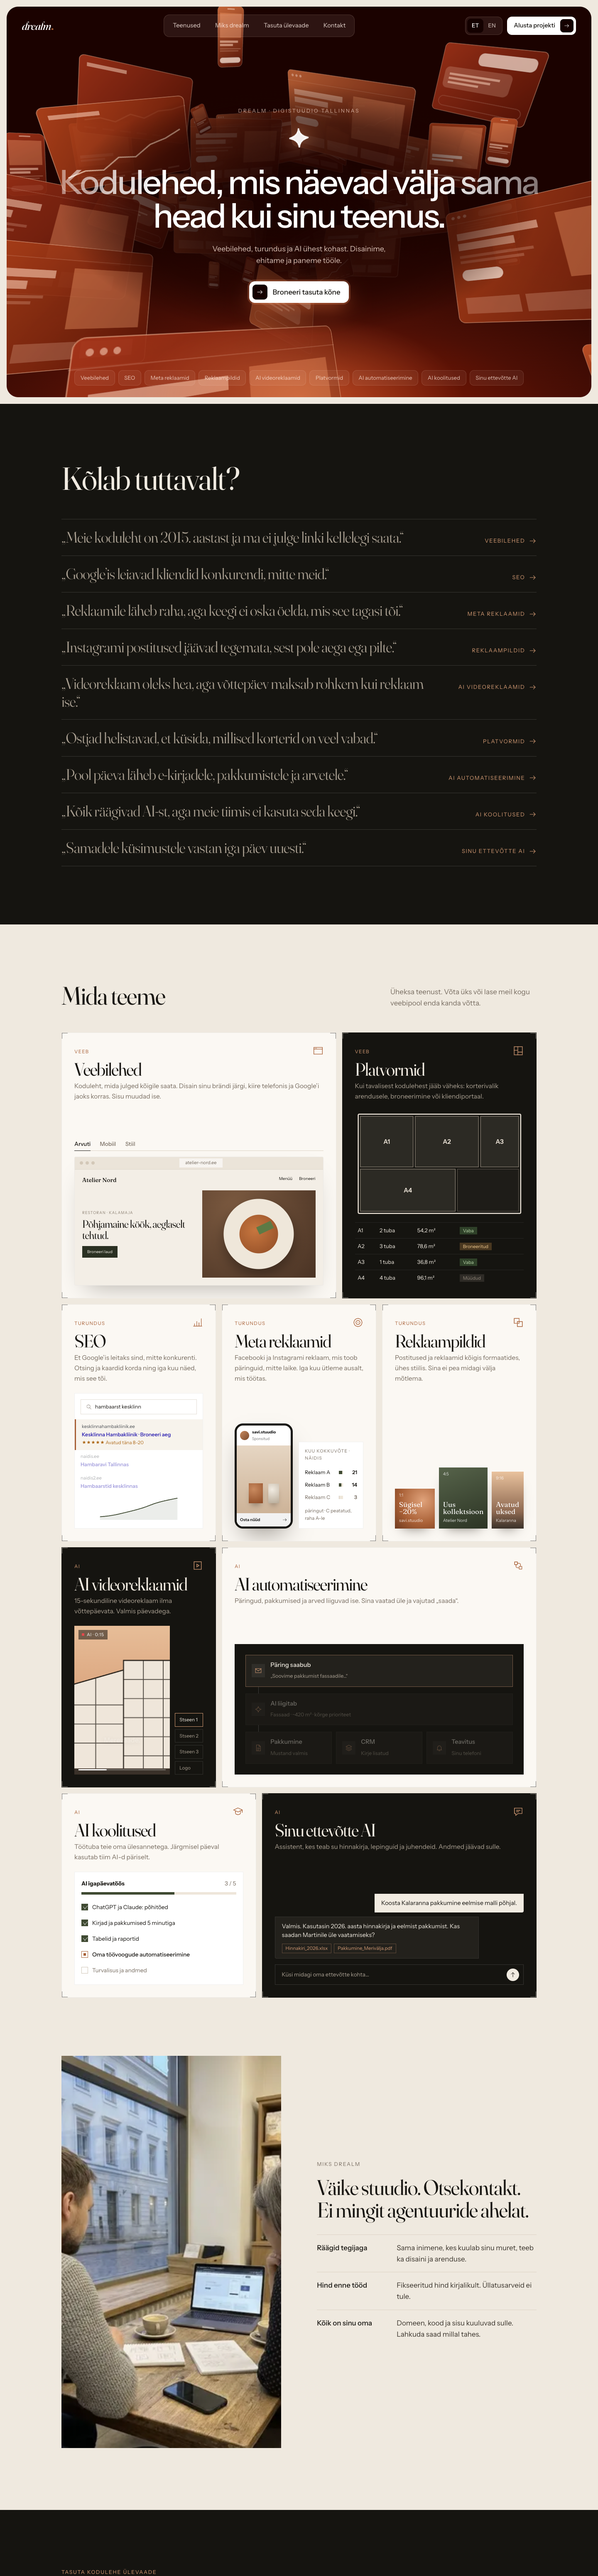
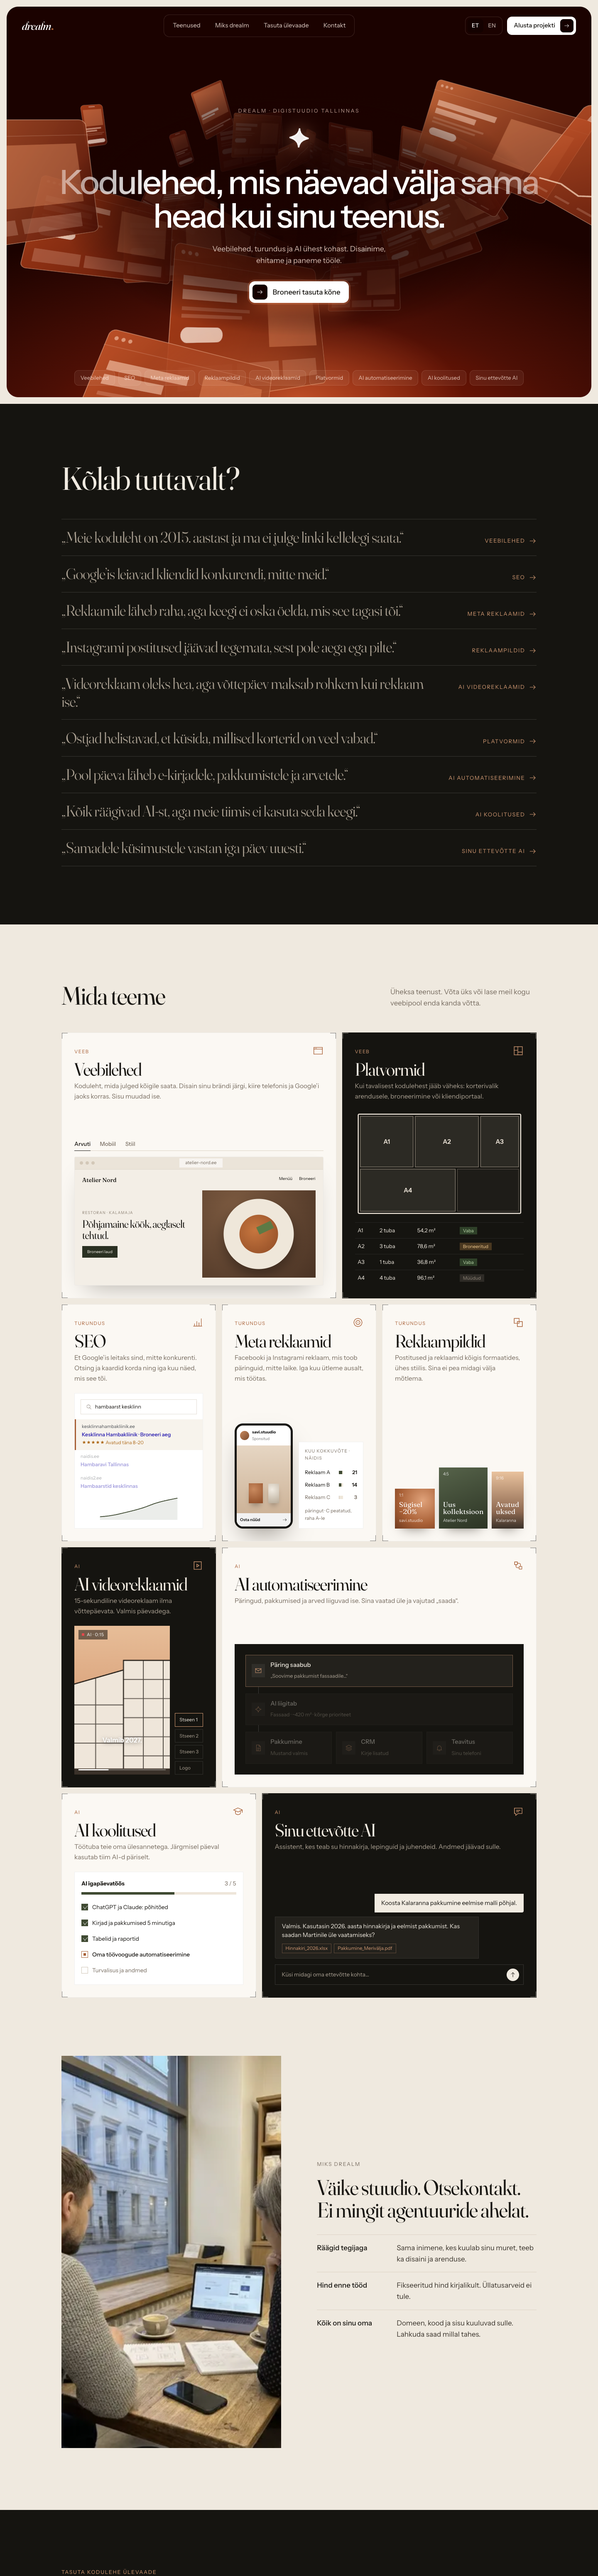
3D hero: fade cards near camera, fewer cards, darker nav pills

Changed region(s): [[0.0, 0.0, 0.5625, 0.1556], [0.4688, 0.0, 1.0, 0.1556]]

diff --git a/src/scripts/hero-scene.ts b/src/scripts/hero-scene.ts
@@ -145,7 +145,7 @@ export function mountHeroScene(canvas: HTMLCanvasElement) {
 
   const DEPTH = 56;
   const cards: { mesh: THREE.Mesh; speed: number; spin: number }[] = [];
-  const N = 72;
+  const N = 56;
   for (let i = 0; i < N; i++) {
     const t = textures[(i * 7) % textures.length];
     const scale = (t.k === 'phone' ? 2.4 : t.k === 'browser' ? 4.4 : 3.1) * (0.8 + Math.random() * 0.5);
@@ -157,7 +157,7 @@ export function mountHeroScene(canvas: HTMLCanvasElement) {
     const radius = 5.2 + Math.random() * 3.2;
     const x = Math.cos(angle) * radius * 1.55;
     const y = Math.sin(angle) * radius * 0.95;
-    mesh.position.set(x, y, -Math.random() * DEPTH);
+    mesh.position.set(x, y, 3 - Math.random() * (DEPTH + 3));
     // turn each card towards the tunnel axis, like panels lining a corridor
     mesh.rotation.set(Math.sign(y) * (0.35 + Math.random() * 0.35), -Math.sign(x) * (0.5 + Math.random() * 0.4), (Math.random() - 0.5) * 0.5);
     scene.add(mesh);
@@ -192,7 +192,10 @@ export function mountHeroScene(canvas: HTMLCanvasElement) {
         for (const c of cards) {
           c.mesh.position.z += c.speed * dt;
           c.mesh.rotation.z += c.spin * dt;
-          if (c.mesh.position.z > 9) c.mesh.position.z -= DEPTH + 9;
+          if (c.mesh.position.z > 3) c.mesh.position.z -= DEPTH + 3;
+          // fade cards out before they get close enough to cover the headline
+          const m = c.mesh.material as THREE.MeshBasicMaterial;
+          m.opacity = Math.min(1, Math.max(0, (3 - c.mesh.position.z) / 6));
         }
       }
       mouse.x += (mouse.tx - mouse.x) * 0.04;
